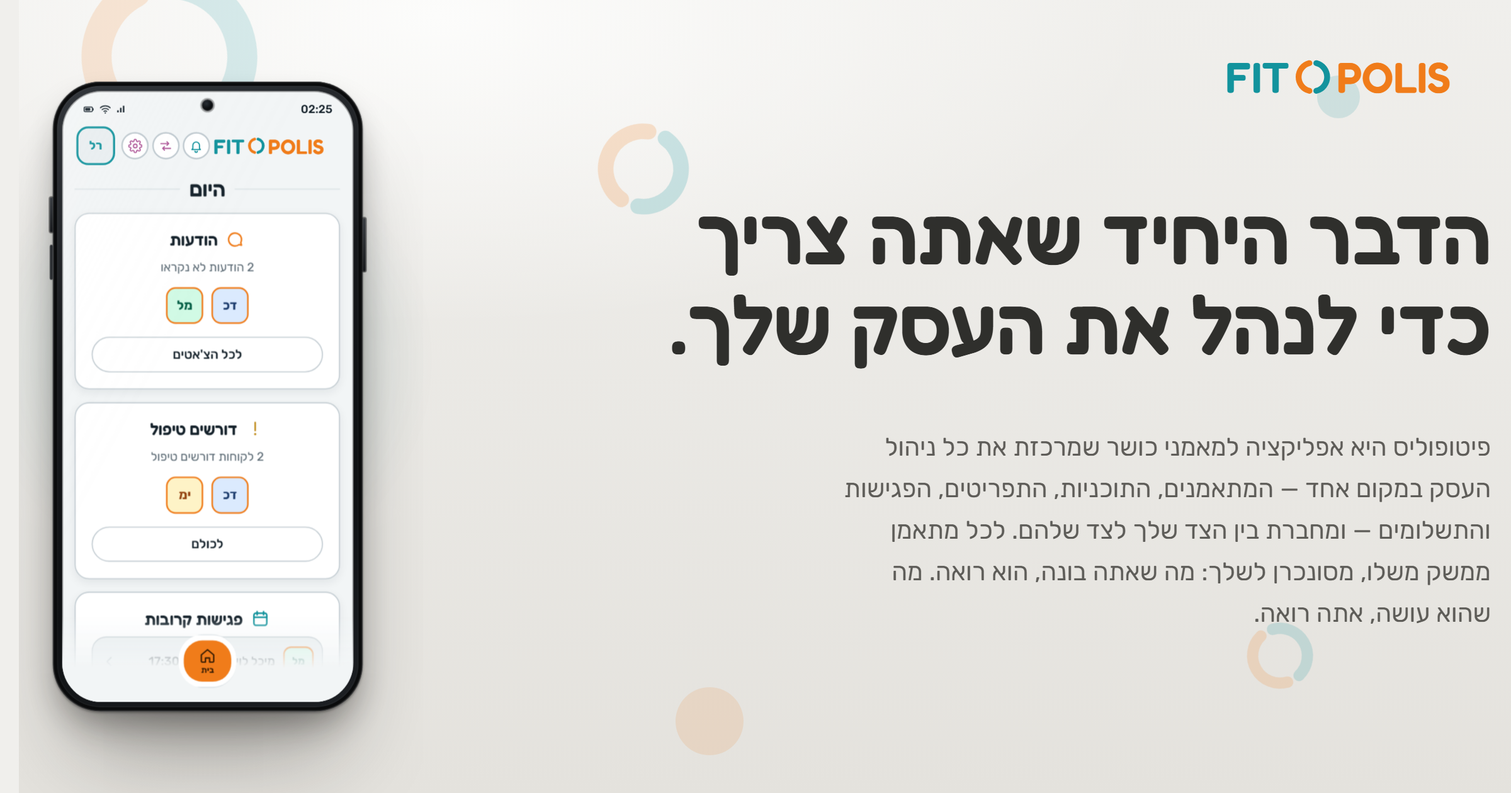
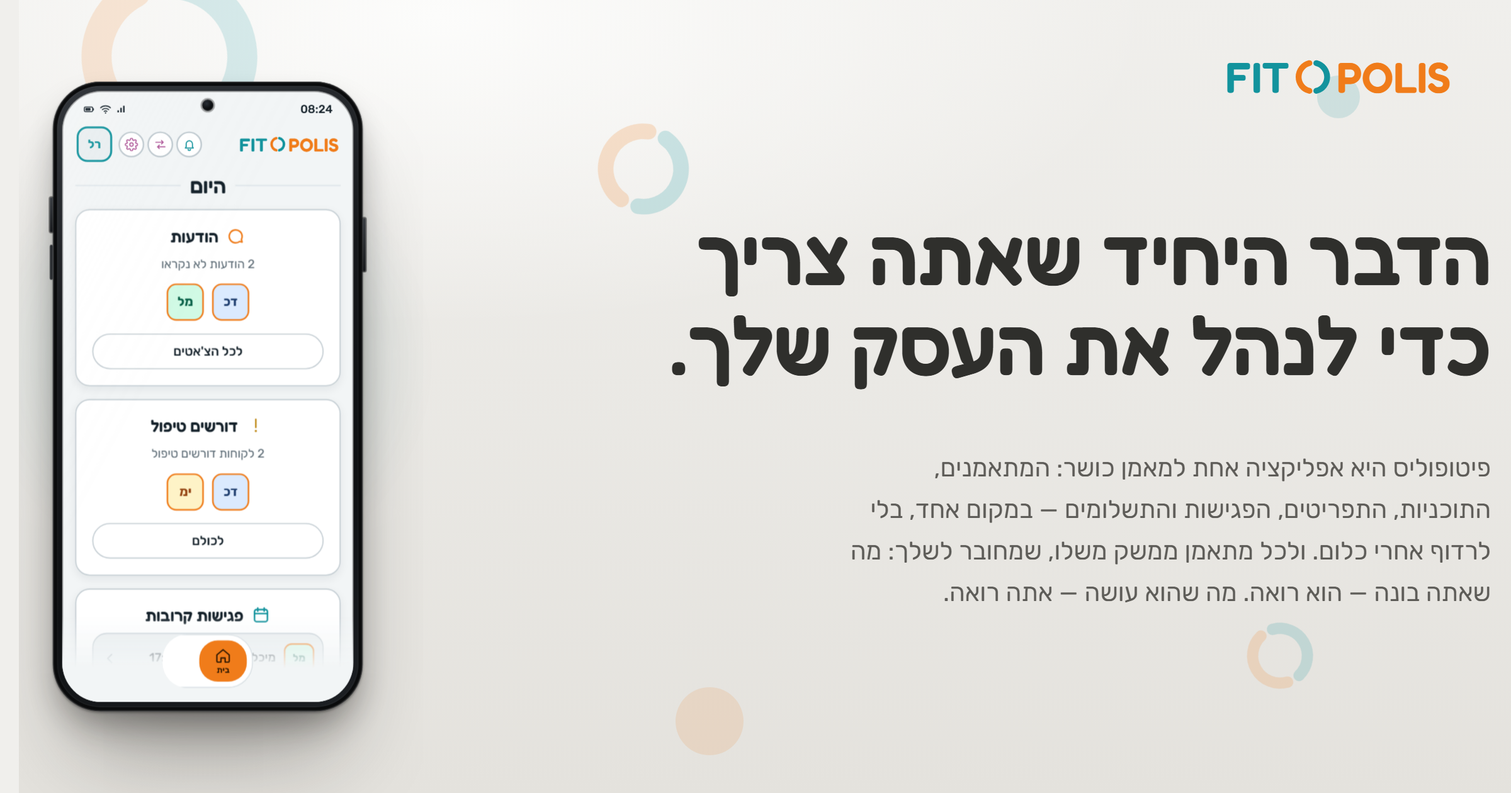
סבב 2 של הבעלים: לוגו בפינה, בר שנפתח ברציפות, סיבוב 360° עם גב לטלפון, כרטיסים מיושרים, קופי מחודד, מסכים רחבים
- הלוגו בטלפון: ה-span הוא LTR ולכן נצמד לאייקונים; justify-content: flex-end
  מצמיד אותו לקצה ההתחלה כמו app_topbar.dart; כפתורי הסרגל 25px, אווטאר 34px
- הבר התחתון: clip-path מלא גם במצב פתוח, כך שהמעבר מהגלולה לבר הוא
  אינטרפולציה ולא קפיצה; הטאבים מופיעים אחרי הפתיחה; מדידה מחדש אחרי
  טעינת גופנים ובשינוי גודל; הבר נולד מכווץ בלי אנימציה בטעינה
- סיבוב: 360° על הציר עם קפיצה, גב לטלפון (אי מצלמה, ה-O, ברק), החלפת
  תוכן כשהמסך פונה מאיתנו, החץ בכפתור צובר סיבובים, לחיצה כפולה מוגנת
- כרטיסי המבנה: subgrid — הפיסה, הכותרת והטקסט מיושרים בין שני כרטיסי
  השורה; פיסת הפרופיל קוצרה (עובדות בשתי עמודות, שורה אחת)
- מסכים רחבים: מכל 1280, הטלפון גדל ב-1600+; קופי מחודד בהירו, בפתיחים
  ובארבעת הכרטיסים; הצהרת הנגישות מתארת את ההדגמה; תמונת שיתוף חדשה

Changed region(s): [[0.4375, 0.2476, 1.0, 0.4952], [0.5625, 0.5571, 1.0, 0.8048], [0.0312, 0.1548, 0.2188, 0.8667]]

diff --git a/css/style.css b/css/style.css
@@ -115,7 +115,7 @@ img, svg { max-width: 100%; }
 .container {
   width: 100%;          /* בלי זה, עטיפת flex מכווצת את הסרגל לרוחב התוכן
                            והרשת של הסרגל העליון קורסת — הכפתור קופץ למרכז */
-  max-width: 1200px;
+  max-width: 1280px;
   margin-inline: auto;
   padding-inline: 24px;
 }
@@ -1213,9 +1213,9 @@ a.logotype { min-height: 44px; }
   position: relative;
   z-index: 1;
 }
-.flip-btn svg { width: 20px; height: 20px; fill: none; stroke: var(--system); stroke-width: 2; stroke-linecap: round; stroke-linejoin: round; transition: transform 0.7s cubic-bezier(0.68, -0.4, 0.32, 1.4); }
+.flip-btn svg { width: 20px; height: 20px; fill: none; stroke: var(--system); stroke-width: 2; stroke-linecap: round; stroke-linejoin: round; transition: transform 0.95s cubic-bezier(0.45, 0, 0.3, 1); }
 .flip-btn:active { transform: scale(0.97); }
-.dp-wrap.is-flipping .flip-btn svg { transform: rotate(180deg); }
+/* החץ בכפתור מסתובב עם הטלפון (הזווית מצטברת ב-JS, כדי שלא יסתובב חזרה) */
 .sides .flip-btn { background: var(--dark-2); border-color: var(--dark-line); color: #FFFFFF; }
 .demo-hint { font-size: 13.5px; color: var(--ink-soft); text-align: center; max-width: 300px; position: relative; z-index: 1; }
 .demo-hint .reset-btn { background: none; border: 0; padding: 0 4px; min-height: 44px; font: inherit; font-size: 13.5px; color: var(--trainer-text); text-decoration: underline; text-underline-offset: 4px; cursor: pointer; }
@@ -1268,11 +1268,48 @@ a.logotype { min-height: 44px; }
     0 70px 100px -30px rgba(0, 0, 0, 0.55);
 }
 /* הסיבוב בין הממשקים: חצי סיבוב החוצה, החלפת התוכן, חצי סיבוב פנימה */
-.dp.flip-out { animation: dp-flip-out 0.36s cubic-bezier(0.4, 0, 1, 1) both; }
-.dp.flip-in  { animation: dp-flip-in 0.4s cubic-bezier(0, 0, 0.2, 1) both; }
-/* הטלפון קופץ מעט ומסתובב על צירו; התוכן מתחלף כשהוא על הצד */
-@keyframes dp-flip-out { from { transform: rotateY(0) translateY(0) scale(1); } to { transform: rotateY(-90deg) translateY(-14px) scale(0.9); } }
-@keyframes dp-flip-in  { from { transform: rotateY(90deg) translateY(-14px) scale(0.9); } to { transform: rotateY(0) translateY(0) scale(1); } }
+/* סיבוב מלא: הטלפון קופץ, מסתובב 360° על צירו — רואים לרגע את הגב שלו —
+   והתוכן מתחלף בדיוק כשהמסך פונה מאיתנו (ב-50%), אז אין קפיצה. */
+.dp.is-turning { animation: dp-turn 0.95s both; }
+@keyframes dp-turn {
+  0%   { transform: rotateY(0) translateY(0) scale(1); animation-timing-function: cubic-bezier(0.55, 0, 0.85, 0.45); }
+  50%  { transform: rotateY(180deg) translateY(-22px) scale(0.93); animation-timing-function: cubic-bezier(0.15, 0.55, 0.3, 1); }
+  100% { transform: rotateY(360deg) translateY(0) scale(1); }
+}
+/* הגב של הטלפון — נראה רק באמצע הסיבוב */
+.dp-back {
+  position: absolute;
+  inset: 9px;
+  border-radius: 38px;
+  background: linear-gradient(155deg, #2c3036 0%, #15171a 55%, #1b1e22 100%);
+  box-shadow: inset 0 0 0 1px rgba(255, 255, 255, 0.06);
+  transform: rotateY(180deg) translateZ(1px);
+  backface-visibility: hidden;
+  display: flex;
+  align-items: center;
+  justify-content: center;
+}
+.dp-back svg { width: 72px; height: 72px; opacity: 0.92; }
+.dp-back::after {             /* ברק אלכסוני עדין על הגב */
+  content: "";
+  position: absolute;
+  inset: 0;
+  border-radius: inherit;
+  background: linear-gradient(118deg, rgba(255, 255, 255, 0.09) 0%, rgba(255, 255, 255, 0.02) 30%, rgba(255, 255, 255, 0) 55%);
+  pointer-events: none;
+}
+.dp-back::before {            /* אי המצלמה */
+  content: "";
+  position: absolute;
+  top: 16px;
+  right: 16px;
+  width: 58px;
+  height: 58px;
+  border-radius: 18px;
+  background: rgba(255, 255, 255, 0.05);
+  box-shadow: inset 0 0 0 1px rgba(255, 255, 255, 0.1), inset 14px 14px 0 -8px rgba(255, 255, 255, 0.08), inset -14px -14px 0 -8px rgba(255, 255, 255, 0.08);
+}
+.dp-screen { backface-visibility: hidden; }
 
 :where(.dp) button { font: inherit; color: inherit; background: none; border: 0; padding: 0; margin: 0; cursor: pointer; text-align: start; }
 .dp button:disabled { cursor: default; }
@@ -1343,7 +1380,8 @@ a.logotype { min-height: 44px; }
   gap: 0.07em;
   font-family: var(--font-display);
   font-weight: 600;
-  font-size: 20px;                /* כמו TopBarWordmark באפליקציה (רוחב ~150 מתוך 390) */
+  justify-content: flex-end;      /* ה-span הוא LTR, אז flex-end = הקצה הימני = תחילת השורה בעברית. בלי זה הלוגו נצמד לאייקונים ונראה "באמצע" */
+  font-size: 18px;
   line-height: 1;
   letter-spacing: 0.01em;
   white-space: nowrap;
@@ -1352,8 +1390,8 @@ a.logotype { min-height: 44px; }
 .dp-wm .polis { color: var(--trainee); }
 .dp-wm .o { width: 0.98em; height: 0.98em; }
 .dp-tbtn {
-  width: calc(34px * var(--k));
-  height: calc(34px * var(--k));
+  width: calc(32px * var(--k));
+  height: calc(32px * var(--k));
   border-radius: 999px;
   background: var(--pf-card);
   border: 1.5px solid var(--pf-strong);
@@ -1362,15 +1400,15 @@ a.logotype { min-height: 44px; }
   justify-content: center;
   box-sizing: border-box;
 }
-.dp-tbtn svg { width: calc(18px * var(--k)); height: calc(18px * var(--k)); }
+.dp-tbtn svg { width: calc(17px * var(--k)); height: calc(17px * var(--k)); }
 /* אזור הלחיצה של כפתורי הסרגל וכפתור החזרה גדול מהעיגול המצויר */
 .dp-tbtn, .dp-chead .back { position: relative; }
 .dp-tbtn::before, .dp-chead .back::before { content: ""; position: absolute; inset: -5px; border-radius: inherit; }
 .dp-me {
-  width: calc(48px * var(--k));
-  height: calc(48px * var(--k));
+  width: calc(44px * var(--k));
+  height: calc(44px * var(--k));
   margin-inline-start: calc(4px * var(--k));
-  border-radius: calc(48px * var(--k) * 22 / 72);
+  border-radius: calc(44px * var(--k) * 22 / 72);
   background: var(--pf-alt);
   color: var(--coach);
   font-weight: 700;
@@ -1742,7 +1780,9 @@ button.dp-row:active { background: var(--pf-alt); }
   background: var(--pf-card);
   border: 1px solid var(--pf-border);
   box-shadow: 0 8px 24px rgba(20, 33, 42, 0.14);
-  transition: clip-path 0.26s cubic-bezier(0.22, 0.8, 0.35, 1), transform 0.26s cubic-bezier(0.22, 0.8, 0.35, 1);
+  clip-path: inset(0 round 24px);      /* גם פתוח — כדי שהמעבר מהגלולה יהיה רציף ולא קפיצה */
+  transform: none;
+  transition: clip-path 0.32s cubic-bezier(0.22, 0.8, 0.35, 1), transform 0.32s cubic-bezier(0.22, 0.8, 0.35, 1);
 }
 .dp-tab {
   width: 38px;
@@ -1767,25 +1807,27 @@ button.dp-row:active { background: var(--pf-alt); }
 .dp-nav[data-side="trainee"] .dp-tab.is-on { background: var(--pf-ink); color: var(--pf-on-ink); }
 /* מכווץ: רק הפעיל נראה. הגאומטריה מחושבת ב-JS דרך משתנים */
 .dp-nav:not(.is-open) .dp-tab:not(.is-on) { opacity: 0; pointer-events: none; }
+.dp-nav.is-open .dp-tab:not(.is-on) { transition-delay: 0.08s; }   /* הטאבים מופיעים אחרי שהגלולה נפתחה */
 .dp-nav:not(.is-open) { clip-path: var(--clip, inset(0 round 24px)); transform: var(--shift, none); }
 
 /* ── כרטיסי המבנה (סקשן 2) ───────────────────────────────── */
-.struct-grid { display: grid; grid-template-columns: repeat(2, minmax(0, 1fr)); gap: 24px; }
+.struct-grid { display: grid; grid-template-columns: repeat(2, minmax(0, 1fr)); grid-auto-rows: auto; gap: 24px; }
 .struct-card {
   background: linear-gradient(168deg, #FFFFFF 0%, #FBFAF7 62%, #F5F3EE 100%);
   border-radius: 24px;
   padding: 18px 18px 28px;
   box-shadow: var(--shadow-sm), inset 0 1px 0 rgba(255, 255, 255, 0.95), inset 0 -1px 0 rgba(21, 18, 15, 0.05);
-  display: flex;
-  flex-direction: column;
-  gap: 14px;
+  display: grid;
+  grid-template-rows: subgrid;   /* הפיסה, הכותרת והטקסט באותם גבהים בשני כרטיסי השורה */
+  grid-row: span 3;
+  row-gap: 14px;
 }
 .struct-card h3 { margin: 8px 6px 0; font-family: var(--font-display); font-weight: 600; font-size: 24px; text-align: center; }
 .struct-card p { margin: 0 8px; font-size: 16px; line-height: 1.65; color: var(--ink-mid); text-align: center; }
 .struct-ui {
   --k: 0.82;
   width: 100%;
-  min-height: 210px;
+  min-height: 240px;
   padding: 14px;
   border-radius: 18px;
   background: var(--pf-bg);
@@ -1805,6 +1847,7 @@ button.dp-row:active { background: var(--pf-alt); }
 .struct-ui .dp-tcard { padding: 12px; }
 .struct-ui .dp-row { min-height: 44px; padding: 9px 2px; }
 .struct-ui .dp-hero { margin-bottom: 8px; }
+.struct-ui .dp-hero .facts { display: grid; grid-template-columns: 1fr 1fr; column-gap: 12px; }   /* ארבע עובדות בשתי עמודות — הפיסה לא גבוהה מהשכנות */
 /* התבניות: שלוש ספריות, וקו שמראה שהן מוקצות למתאמנים */
 .tpl { display: flex; align-items: center; gap: 10px; background: var(--pf-card); border: 1px solid var(--pf-border); border-radius: 14px; padding: 10px 12px; }
 .tpl .ic { width: 20px; height: 20px; color: var(--coach); }
@@ -1871,9 +1914,16 @@ button.dp-row:active { background: var(--pf-alt); }
 }
 .dp-toast.show { opacity: 1; transform: translate(-50%, 0); }
 
+/* ── מסכים רחבים: הטלפון והכרטיסים לא נשארים קטנים באמצע ─────── */
+@media (min-width: 1600px) {
+  .hero .dp-wrap, .sides .dp-wrap { zoom: 1.12; }
+  .hero h1 { font-size: 62px; }
+  .hero .sub { max-width: 600px; }
+}
+
 /* ── צמצום תנועה ──────────────────────────────────────────── */
 @media (prefers-reduced-motion: reduce) {
-  .dp.flip-out, .dp.flip-in { animation: none !important; }
+  .dp.is-turning { animation: none !important; }
   .dp-nav { transition: none; }
   .flip-btn svg { transition: none; }
 }

diff --git a/index.html b/index.html
@@ -91,7 +91,7 @@
       <div class="hero-copy">
         <span class="hero-chip reveal"><span class="dot"></span>בקרוב ב-Google Play וב-App Store</span>
         <h1 class="reveal d1">הדבר היחיד שאתה צריך <br>כדי לנהל את העסק שלך.</h1>
-        <p class="sub reveal d2">פיטופוליס היא אפליקציה למאמני כושר שמרכזת את כל ניהול העסק במקום אחד — המתאמנים, התוכניות, התפריטים, הפגישות והתשלומים — ומחברת בין הצד שלך לצד שלהם. לכל מתאמן ממשק משלו, מסונכרן לשלך: מה שאתה בונה, הוא רואה. מה שהוא עושה, אתה רואה.</p>
+        <p class="sub reveal d2">פיטופוליס היא אפליקציה אחת למאמן כושר: המתאמנים, התוכניות, התפריטים, הפגישות והתשלומים — במקום אחד, בלי לרדוף אחרי כלום. ולכל מתאמן ממשק משלו, שמחובר לשלך: מה שאתה בונה — הוא רואה. מה שהוא עושה — אתה רואה.</p>
         <a class="btn btn-primary reveal d4" href="mailto:fitopolis.contact@gmail.com">אני רוצה להיות מהראשונים</a>
         <p class="note reveal d5">בהרצה סגורה · המקומות הראשונים מוגבלים · תשובה אישית ממני</p>
       </div>
@@ -102,7 +102,7 @@
         <div class="dp-wrap">
           <div class="dp" data-demo data-side="trainer" role="group" aria-label="הדגמה אינטראקטיבית של ממשק המאמן — כל כפתור לחיץ"></div>
           <button class="flip-btn" type="button"><svg viewBox="0 0 24 24" aria-hidden="true"><use href="#i-swap"/></svg><span>לממשק המתאמן</span></button>
-          <p class="demo-hint">הדגמה חיה — כל כפתור לחיץ. גלול, שלח הודעה, סמן ארוחה. <button class="reset-btn" type="button">איפוס</button></p>
+          <p class="demo-hint">הדגמה חיה, לא סרטון: כל כפתור לחיץ. פתח כרטיס, שלח הודעה, אשר פגישה. <button class="reset-btn" type="button">איפוס</button></p>
         </div>
       </div>
     </div>
@@ -114,7 +114,7 @@
       <div class="section-head scroll-reveal">
         <svg class="section-mark" viewBox="0 0 100 100" aria-hidden="true"><path d="M 41.8 17 A 34 34 0 0 0 41.8 83" fill="none" stroke="#F07C1A" stroke-width="14" stroke-linecap="round"/><path d="M 58.2 17 A 34 34 0 0 1 58.2 83" fill="none" stroke="#12939D" stroke-width="14" stroke-linecap="round"/></svg>
         <h2 class="section-title">המבנה המרכזי של <span dir="ltr">FITOPOLIS</span></h2>
-        <p class="section-intro">לא רשימת יכולות — שלד. ארבעה דברים שכל השאר באפליקציה נבנה מהם.</p>
+        <p class="section-intro">לא רשימת יכולות — שלד. ארבעה דברים שכל השאר נבנה מהם.</p>
       </div>
       <div class="struct-grid">
         <div class="struct-card scroll-reveal">
@@ -126,11 +126,10 @@
             <div class="dp-tabs"><span class="on">מעקב</span><span>יצירת קשר</span><span>תשלומים</span></div>
             <div class="dp-tcard">
               <div class="dp-row"><svg class="ic v-attention"><use href="#i-weight"/></svg><span class="col"><span class="lbl">משקל</span><span class="val">81.4 ק"ג · לא עודכן השבוע</span></span></div>
-              <div class="dp-row"><svg class="ic v-coach"><use href="#i-fitness"/></svg><span class="col"><span class="lbl">תוכנית אימון</span><span class="val">תכנית 4 ימים · 3 מתוך 4 השבוע</span></span></div>
             </div>
           </div>
           <h3>כרטיס המתאמן</h3>
-          <p>כל מה שקשור למתאמן אחד יושב במקום אחד: הפרטים והמגבלות שלו, התוכנית והתפריט שהוקצו לו, המשקל וההיקפים לאורך זמן, הפגישות, התשלומים והשיחה. מכאן אתה מנהל אותו — ומכאן נולד הממשק שהוא רואה.</p>
+          <p>מתאמן אחד — מקום אחד: פרטים ומגבלות, התוכנית והתפריט שלו, משקל והיקפים לאורך זמן, פגישות, תשלומים והשיחה ביניכם. מכאן אתה מנהל אותו, ומכאן נולד הממשק שהוא רואה.</p>
         </div>
 
         <div class="struct-card scroll-reveal">
@@ -140,7 +139,7 @@
             <div class="tpl"><svg class="ic"><use href="#i-card"/></svg><span class="col"><b>מנוי סטנדרטי</b><small>350 ₪ · חודשי · 8 מתאמנים מקושרים</small></span><span class="linked"><span class="av av-green">מל</span><span class="av av-amber">אב</span><span class="more">+6</span></span></div>
           </div>
           <h3>התבניות</h3>
-          <p>תוכנית אימון, תפריט ומבנה תשלום נבנים פעם אחת, כתבנית. מקצים אותה למתאמן בלחיצה ומתאימים לו רק את מה שצריך, בלי להתחיל מאפס. עדכון בתבנית מגיע לכל מי שמקושר אליה — ולא לאף אחד אחר.</p>
+          <p>תוכנית, תפריט ומבנה תשלום — בונים פעם אחת. מקצים למתאמן בלחיצה, משנים לו רק מה שצריך, ולא מתחילים מאפס. עדכון בתבנית מגיע לכל מי שמקושר אליה — ורק אליו.</p>
         </div>
 
         <div class="struct-card scroll-reveal">
@@ -155,7 +154,7 @@
             <span class="caption">חל על הממשק שלך ועל ממשק המתאמנים שלך</span>
           </div>
           <h3>המיתוג שלך</h3>
-          <p>הלוגו שלך פותח את האפליקציה ויושב בראש כל מסך, והצבעים שלך על כל כפתור, תג וסמן — אצלך ואצל המתאמנים. לכל צבע באפליקציה תפקיד אחד; אתה בוחר את הגוון, המשמעות נשארת.</p>
+          <p>הלוגו שלך פותח את האפליקציה ויושב בראש כל מסך — אצלך ואצל המתאמנים שלך. הצבעים שלך על כל כפתור, תג וסמן. לכל צבע תפקיד אחד: אתה בוחר את הגוון, המשמעות נשארת.</p>
         </div>
 
         <div class="struct-card scroll-reveal">
@@ -166,7 +165,7 @@
             <div class="flow"><span class="step who-trainer">מבנה תשלום<small>סכום ותדירות</small></span><svg class="arr"><use href="#i-arrow"/></svg><span class="step">תקופות<small>נגזרות מהמבנה</small></span><svg class="arr"><use href="#i-arrow"/></svg><span class="step who-trainer">רישום<small>נסגר מול תקופה</small></span></div>
           </div>
           <h3>תיאומים ותקופות</h3>
-          <p>פגישה היא תיאום, לא הודעה: הוא מבקש, אתה מאשר או מציע זמן אחר, והוא מאשר הגעה — וכל שלב מסומן. תשלום הוא תקופה, לא סכום: מבנה התשלום קובע את התקופות, וכל רישום נסגר מולן — כך שתמיד ברור מי שילם על מה.</p>
+          <p>פגישה היא תיאום, לא הודעה: הוא מבקש, אתה מאשר או מציע זמן אחר, הוא מאשר הגעה — וכל שלב מסומן. תשלום הוא תקופה, לא סכום: מבנה התשלום קובע תקופות, כל רישום נסגר מול תקופה — ותמיד ברור מי שילם על מה.</p>
         </div>
       </div>
     </div>
@@ -179,7 +178,7 @@
         <svg class="section-mark" viewBox="0 0 100 100" aria-hidden="true"><path d="M 41.8 17 A 34 34 0 0 0 41.8 83" fill="none" stroke="#F07C1A" stroke-width="14" stroke-linecap="round"/><path d="M 58.2 17 A 34 34 0 0 1 58.2 83" fill="none" stroke="#12939D" stroke-width="14" stroke-linecap="round"/></svg>
         <h2 class="section-title">סנכרון מלא בין הממשקים</h2>
       </div>
-      <p class="sides-intro scroll-reveal">אין כאן שני מוצרים. יש מערכת אחת עם שני צדדים שקוראים מאותו מידע — מה שנעשה בצד אחד מופיע בשני ברגע שהוא נעשה. שני הטלפונים בדף הזה מחוברים באמת: סמן כאן ארוחה, ותמצא אותה בכרטיס המתאמן למעלה.</p>
+      <p class="sides-intro scroll-reveal">אין כאן שני מוצרים — יש מערכת אחת עם שני צדדים שקוראים מאותו מידע. מה שנעשה בצד אחד מופיע בשני באותו רגע. ושני הטלפונים בדף הזה מחוברים באמת: סמן כאן ארוחה, ותמצא אותה בכרטיס המתאמן למעלה.</p>
       <div class="sides-layout">
         <div class="sides-cards">
           <div class="side-card side-trainer scroll-reveal">

diff --git a/js/demo.js b/js/demo.js
@@ -313,14 +313,18 @@
   }
 
   function flip(ph) {
+    if (ph.turning) return;
     var wrap = ph.root.parentNode;
     var to = ph.side === 'trainer' ? 'trainee' : 'trainer';
     var swap = function () { ph.side = to; ph.screen = to === 'trainer' ? 'home' : 'today'; ph.navOpen = false; ph.sheetOpen = false; ph.scrollTop = 0; render(ph); };
     if (reduceMotion) { swap(); return; }
+    ph.turning = true;
     wrap.classList.add('is-flipping');
-    ph.root.classList.add('flip-out');
-    setTimeout(function () { swap(); ph.root.classList.remove('flip-out'); ph.root.classList.add('flip-in'); }, 360);
-    setTimeout(function () { ph.root.classList.remove('flip-in'); wrap.classList.remove('is-flipping'); }, 760);
+    var arrow = wrap.querySelector('.flip-btn svg');
+    if (arrow) { ph.spins = (ph.spins || 0) + 360; arrow.style.transform = 'rotate(' + ph.spins + 'deg)'; }
+    ph.root.classList.add('is-turning');
+    setTimeout(swap, 475);                                            // המסך פונה מאיתנו — מחליפים
+    setTimeout(function () { ph.root.classList.remove('is-turning'); wrap.classList.remove('is-flipping'); ph.turning = false; }, 960);
   }
 
   function mount(root) {
@@ -328,7 +332,8 @@
     ph.screen = ph.side === 'trainer' ? 'home' : 'today';
     root.innerHTML = '<div class="dp-screen"><div class="dp-status"><span class="dp-clock">' + now() + '</span><span class="dp-status-icons">' + icon('signal') + icon('wifi') + icon('battery') + '</span></div>' +
       '<div class="dp-topbar"></div><div class="dp-stage"></div><div class="dp-navwrap"><div class="dp-nav" role="tablist"></div></div>' +
-      '<div class="dp-toast" role="status" aria-live="polite"></div><div class="dp-sheet" hidden><div class="sheet-card"><span class="lbl">הזנת משקל</span><span class="big"><b>81.2</b><i>ק"ג</i></span><span class="hint">היום · אפשר לערוך עד חצות</span><div class="sheet-btns"><button class="dp-obtn" data-act="sheetclose">ביטול</button><button class="dp-eat compact" data-act="weightsave">' + icon('check') + 'שמור</button></div></div></div></div>';
+      '<div class="dp-toast" role="status" aria-live="polite"></div><div class="dp-sheet" hidden><div class="sheet-card"><span class="lbl">הזנת משקל</span><span class="big"><b>81.2</b><i>ק"ג</i></span><span class="hint">היום · אפשר לערוך עד חצות</span><div class="sheet-btns"><button class="dp-obtn" data-act="sheetclose">ביטול</button><button class="dp-eat compact" data-act="weightsave">' + icon('check') + 'שמור</button></div></div></div></div>' +
+      '<div class="dp-back" aria-hidden="true"><svg viewBox="0 0 100 100"><path d="M 41.8 17 A 34 34 0 0 0 41.8 83" fill="none" stroke="#F07C1A" stroke-width="14" stroke-linecap="round"/><path d="M 58.2 17 A 34 34 0 0 1 58.2 83" fill="none" stroke="#12939D" stroke-width="14" stroke-linecap="round"/></svg></div>';
     ph.topbar = root.querySelector('.dp-topbar'); ph.stage = root.querySelector('.dp-stage'); ph.nav = root.querySelector('.dp-nav'); ph.sheet = root.querySelector('.dp-sheet'); ph.toast = root.querySelector('.dp-toast');
     root.addEventListener('click', function (e) {
       var b = e.target.closest('[data-act]');
@@ -343,8 +348,15 @@
     var fb = wrap.querySelector('.flip-btn'); if (fb) fb.addEventListener('click', function () { act(ph, 'flip'); });
     var rb = wrap.querySelector('.reset-btn'); if (rb) rb.addEventListener('click', function () { act(ph, 'reset'); });
     phones.push(ph);
+    ph.nav.style.transition = 'none';                               // הבר נולד מכווץ, בלי אנימציית פתיחה בטעינה
     render(ph);
+    requestAnimationFrame(function () { requestAnimationFrame(function () { ph.nav.style.transition = ''; }); });
   }
 
   document.querySelectorAll('.dp[data-demo]').forEach(mount);
+  // הגלולה נמדדת שוב אחרי שהגופנים נטענו ובשינוי גודל — אחרת הרוחב של התווית לא נכון בלחיצה הראשונה
+  function refit() { phones.forEach(fitNav); }
+  if (document.fonts && document.fonts.ready) document.fonts.ready.then(refit);
+  window.addEventListener('resize', refit);
+  window.addEventListener('load', refit);
 })();

diff --git a/accessibility.html b/accessibility.html
@@ -54,7 +54,7 @@
     <h2>מה עדיין לא נגיש</h2>
     <p>אנחנו מעדיפים לומר את זה במפורש ולא להבטיח יותר ממה שקיים:</p>
     <ul>
-      <li><strong>איורי מסכי האפליקציה</strong> שבדף הבית (שני הטלפונים ופיסות הממשק בכרטיסי היכולות) הם המחשה ויזואלית. כל טלפון מלווה בתיאור מילולי לקוראי מסך, אבל הפרטים שבתוכם — שמות, שעות ומספרים — אינם נקראים אחד-אחד.</li>
+      <li><strong>ההדגמה האינטראקטיבית</strong> שבדף הבית (שני הטלפונים) היא המחשה: הכפתורים בתוכה בקנה מידה של טלפון ולכן קטנים מ-44 פיקסלים, והמידע שבה הוא נתוני דוגמה. כל טלפון מלווה בתיאור מילולי לקוראי מסך, וכל מה שהאתר מבטיח כתוב בטקסט הדף עצמו — לא רק בתוך ההדגמה. פיסות הממשק בכרטיסי "המבנה המרכזי" מוסתרות מקוראי מסך, והטקסט שלצידן אומר את אותו הדבר.</li>
       <li><strong>האתר לא נבדק בבדיקת נגישות חיצונית מוסמכת</strong> ולא נבדק ידנית מול כל קוראי המסך הקיימים. הבדיקות שבוצעו הן אוטומטיות וידניות מטעמנו.</li>
       <li><strong>האפליקציה עצמה</strong> אינה חלק מההצהרה הזאת. היא בפיתוח, וכשתעלה לחנויות תיבדק ותוצהר בנפרד.</li>
     </ul>
@@ -79,7 +79,7 @@
       <dt>שם האתר</dt><dd>פיטופוליס — fitopolis.co.il</dd>
       <dt>תקן</dt><dd>ת"י 5568, מבוסס WCAG 2.1 רמה AA</dd>
       <dt>סוג הבדיקה</dt><dd>בדיקה אוטומטית וידנית פנימית</dd>
-      <dt>עודכן לאחרונה</dt><dd>8 בספטמבר 2026</dd>
+      <dt>עודכן לאחרונה</dt><dd>9 בספטמבר 2026</dd>
     </dl>
   </section>
 </main>
